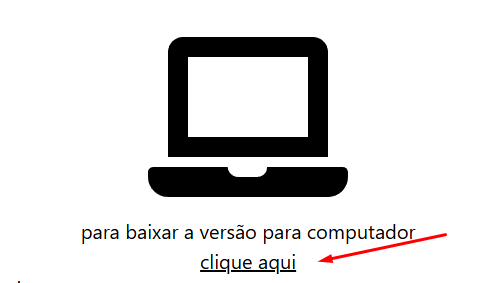
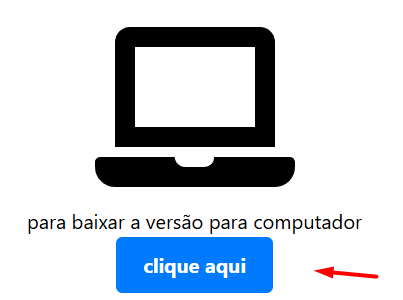
section form and style btn_a

Changed region(s): [[0.0596, 0.0848, 0.9529, 0.9894], [0.0298, 0.9894, 0.0596, 1.0]]

diff --git a/src/components/howtoinstall/HowToInstall.js b/src/components/howtoinstall/HowToInstall.js
@@ -8,7 +8,7 @@ function HowToInstall() {
       <div className="computer">
         <FaLaptop className="icon-computer" />
         <p>para baixar a versão para computador</p>
-        <a href="https://github.com/tcc-Iago-Lucas/game/releases/download/v_1.0.0_wapi_pc/NoobSecurity.zip" >clique aqui</a>
+        <a className="btn" href="https://github.com/tcc-Iago-Lucas/game/releases/download/v_1.0.0_wapi_pc/NoobSecurity.zip" >clique aqui</a>
         <div >
           <p>Para instalar para computador (windows) é so seguir esses passos:</p>
           <Step title="passo 1" text="Baixe a versão para computador" srcImg="/install/computer/step_1.png" altImg="imagem que clica no link para baixar" />
@@ -22,10 +22,11 @@ function HowToInstall() {
       <div className="mobile">
         <FaMobileAlt className='icon-mobile' />
         <p>para baixar a versão para celular</p>
-        <a href="https://github.com/tcc-Iago-Lucas/game/releases/download/v_1.0.0_wapi/NoobSecurity.apk" >clique aqui</a>
+        <a className="btn" href="https://github.com/tcc-Iago-Lucas/game/releases/download/v_1.0.0_wapi/NoobSecurity.apk" >clique aqui</a>
         <div>
           <p>Para instalar para celular (android) é so seguir esses passos:</p>
-          <Step title="passo 1 download apk" text="Baixe a versão para andriod" srcImg="/install/mobile/step_download_mobile.png" altImg="imagem que clica no link para baixar" />
+          <Step title="passo 1 download jogo" text="Baixe a versão para andriod" srcImg="/install/mobile/download_mobile.png" altImg="imagem que clica no link para baixar" />
+          <Step title=" " text=" " srcImg="/install/mobile/step_download_mobile.png" altImg="imagem que clica no link para baixar" />
           <Step title="passo 2 permissão" text="Verificar se tem permissão de instalar app de terceiros na finalizaçao do download" srcImg="/install/mobile/step_permission_1.png"
             altImg="permissão de instalação" />
           <Step title="passo 2.1 permissão" text="Ou ir nas configurações do celular e pesquisar 'fontes desconhecidas'" srcImg="/install/mobile/Step_config_permission_1.png"

diff --git a/src/App.css b/src/App.css
@@ -24,6 +24,32 @@ p {
   min-width: 80%;
 }
 
+.btn {
+      display: inline-block; /* Permite usar largura e altura */
+      padding: 10px 20px; /* Espaçamento interno */
+      font-size: 16px; /* Tamanho da fonte */
+      font-weight: bold; /* Fonte em negrito */
+      text-align: center; /* Centraliza o texto */
+      text-decoration: none; /* Remove o sublinhado */
+      color: #ffffff; /* Cor do texto */
+      background-color: #007BFF; /* Cor de fundo do botão */
+      border-radius: 5px; /* Bordas arredondadas */
+      border: 2px solid transparent; /* Borda inicial */
+      transition: all 0.3s ease; /* Suaviza as mudanças */
+    }
+
+    /* Estilo ao passar o mouse */
+    .btn:hover {
+      background-color: #0056b3; /* Cor mais escura ao passar o mouse */
+      border-color: #ffffff; /* Adiciona uma borda visível */
+    }
+
+    /* Adicionando um estado ativo */
+    .btn:active {
+      background-color: #004085; /* Cor ainda mais escura ao clicar */
+      transform: scale(0.98); /* Pequena redução no tamanho para simular o clique */
+    }
+
 .background {
   background-image: url("../public/noobSecurityBG.png");
   background-size: contain; /* ajusta a imagem para cobrir o elemento */

diff --git a/src/App.js b/src/App.js
@@ -2,6 +2,7 @@
 import './App.css';
 import About from "./components/about/About.js";
 import HowToInstall from './components/howtoinstall/HowToInstall.js';
+import FeedBack from './components/feedback/FeedBack.js';
 
 function App() {
   return (
@@ -9,6 +10,7 @@ function App() {
       <div className="container">
         <About />
         <HowToInstall />
+        <FeedBack />
       </div>
     </div>
 

diff --git a/src/components/feedback/FeedBack.js b/src/components/feedback/FeedBack.js
@@ -1,0 +1,15 @@
+
+
+function FeedBack() {
+
+  return (
+    <div className="background-white">
+      <p>Agora que jogou poderia responder esse formulario para avaliar e dizer em que podemos melhorar?
+        <br /> <a className="btn" href="https://forms.gle/GKFqSG7CYnb3ta2W8" target="_blank" rel="noreferrer">Clique aqui para acessar o form</a>
+      </p>
+    </div>
+  )
+
+}
+
+export default FeedBack
